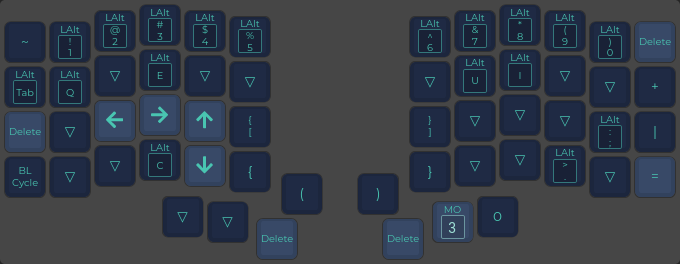
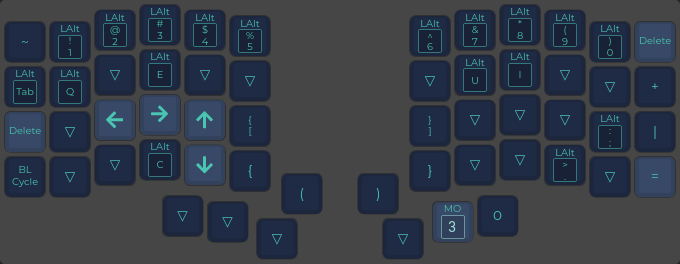
Remove delete mapping on thumb keys for layer 1

diff --git a/keymap.c b/keymap.c
@@ -54,7 +54,7 @@ const uint16_t PROGMEM keymaps[][MATRIX_ROWS][MATRIX_COLS] = {
   //├────────┼────────┼────────┼────────┼────────┼────────┼────────┐        ┌────────┼────────┼────────┼────────┼────────┼────────┼────────┤
      BL_STEP, _______, _______, LALT(KC_C), KC_DOWN, KC_LCBR, KC_LPRN,       KC_RPRN, KC_RCBR, _______, _____, LALT(KC_DOT), _____, KC_EQL,
   //└────────┴────────┴────────┴───┬────┴───┬────┴───┬────┴───┬────┘        └───┬────┴───┬────┴───┬────┴───┬────┴────────┴────────┴────────┘
-                                    _______, _______, KC_DEL,                    KC_DEL,  _______, KC_P0
+                                    _______, _______, ______,                    ______,  _______, KC_P0
                                 // └────────┴────────┴────────┘                 └────────┴────────┴────────┘
   ),
 
